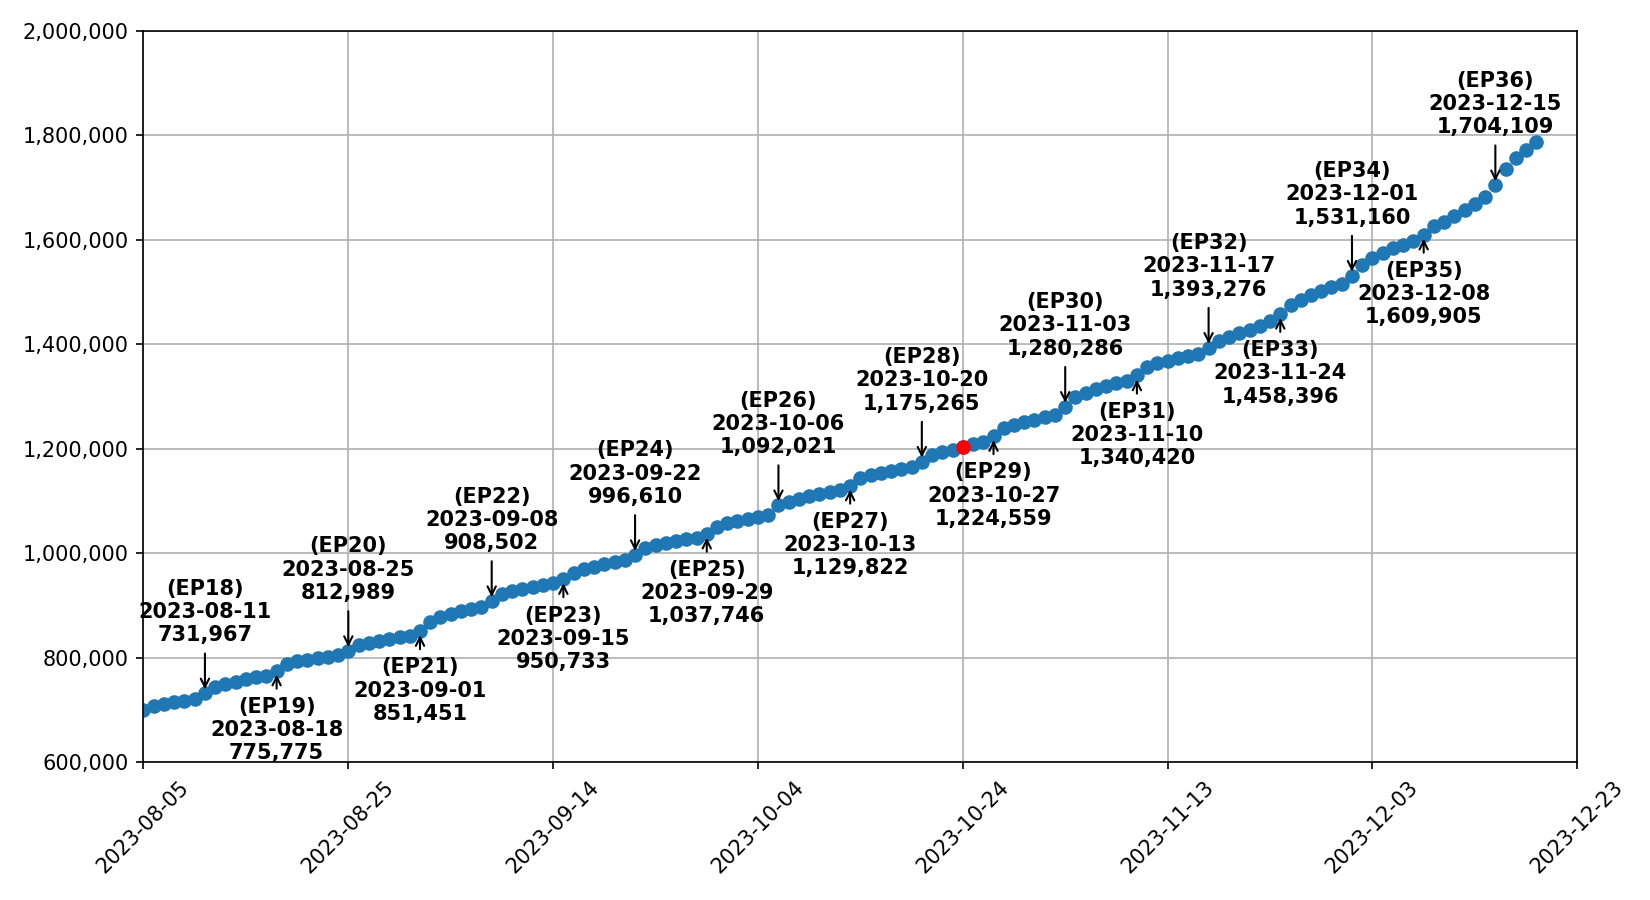
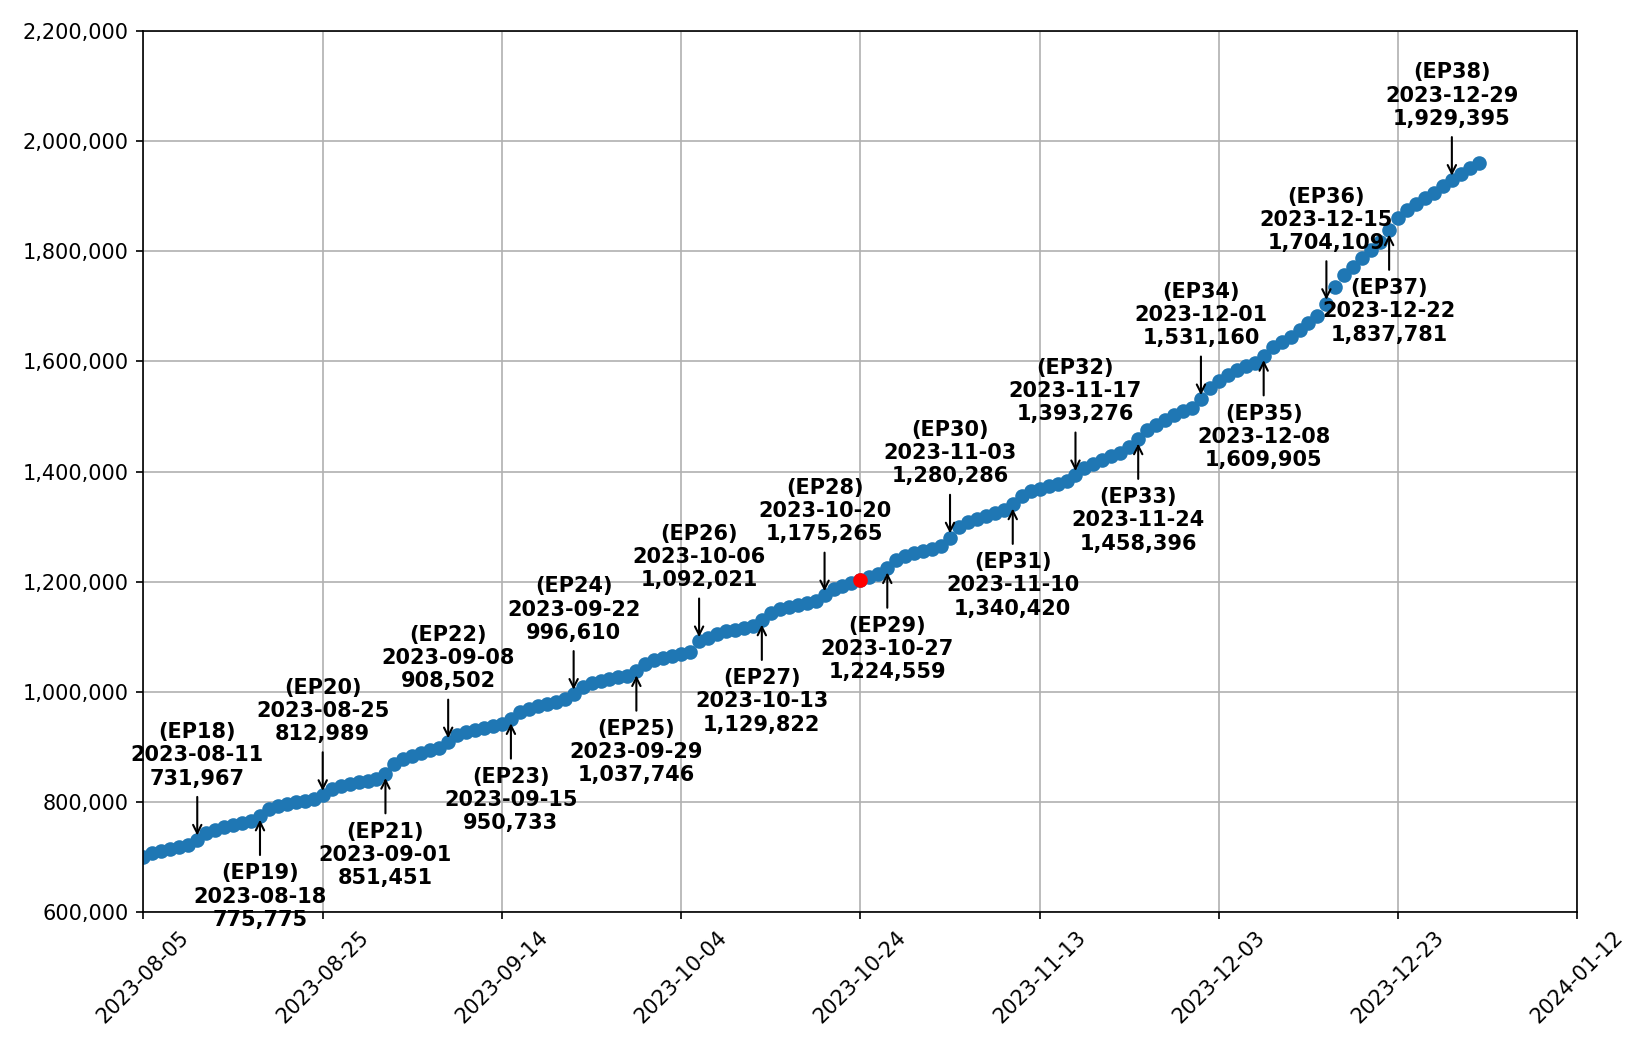
Prediction update

diff --git a/src/lib/prediction.py b/src/lib/prediction.py
@@ -24,7 +24,7 @@ print(line_fitter.predict([[goal]]))
 predictor = goal
 prediction = line_fitter.predict([[goal]])
 
-plt.figure(figsize=(11, 6))
+plt.figure(figsize=(11, 7))
 plt.ylim(600000, y[len(df) - 1] + 100000)  # y축 범위
 plt.xlim(0, len(df))  # x축 범위
 plt.plot(X, y, "o")  # 기록 데이터
@@ -71,7 +71,7 @@ for i in range(len(X)):
             arrowprops=dict(arrowstyle="->", color="black"),
         )
         if placing == 100000:
-            placing = -170000
+            placing = -200000
         else:
             placing = 100000
 # 예측기능 범위 시작
